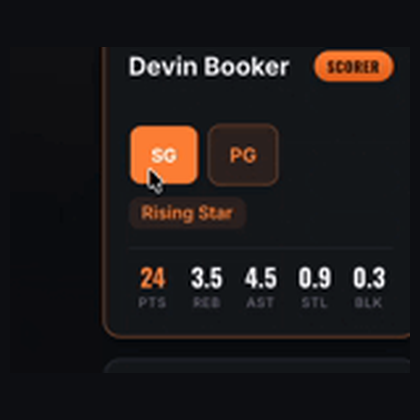
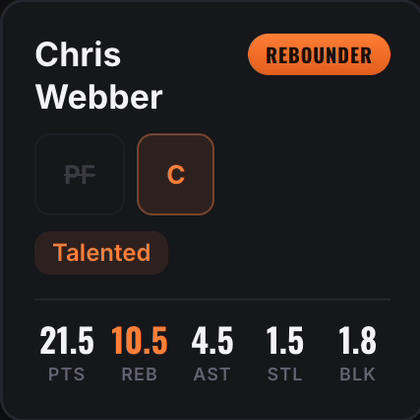
Merge Findings into one box, fix stat-legibility image sizing
- Findings: 11 separate boxes combined into a single container with
  divider rows between items, instead of 11 individually-boxed cards
- Stat legibility before/after: replaced blurry low-res "after" crop
  with a crisp frame sourced from the full-res video, matched both
  cards to the same player (Chris Webber) and the same text/content
  scale so before and after are a fair visual comparison

diff --git a/iknowball-case-study.html b/iknowball-case-study.html
@@ -320,6 +320,22 @@
       padding: 24px 26px;
       margin-bottom: 20px;
     }
+    .findings-box {
+      background: #F1EFE9;
+      border-radius: 8px;
+      padding: 8px 26px;
+    }
+    .findings-item {
+      padding: 18px 0;
+      border-bottom: 1px solid rgba(0,0,0,0.07);
+    }
+    .findings-item:last-child { border-bottom: none; }
+    .findings-item h3 {
+      margin: 0;
+      font-size: 18px;
+      font-weight: 700;
+      color: var(--text);
+    }
     .finding-sources {
       display: flex;
       flex-wrap: wrap;
@@ -487,59 +503,61 @@
       <p>Key themes that repeated across all three rounds, condensed to the headline finding and who flagged it.</p>
     </div>
 
-    <div class="finding">
-      <div class="finding-sources"><span class="src-chip">Founding complaint</span><span class="src-chip">Nicky</span><span class="src-chip new">Kevin's group</span></div>
-      <h3>Repetition: the reason the project exists, twice over</h3>
-    </div>
+    <div class="findings-box">
+      <div class="findings-item">
+        <div class="finding-sources"><span class="src-chip">Founding complaint</span><span class="src-chip">Nicky</span><span class="src-chip new">Kevin's group</span></div>
+        <h3>Repetition: the reason the project exists, twice over</h3>
+      </div>
 
-    <div class="finding">
-      <div class="finding-sources"><span class="src-chip new">Kevin's group</span></div>
-      <h3>Ratings still don't feel accurate: the "decade dilution" pattern</h3>
-    </div>
+      <div class="findings-item">
+        <div class="finding-sources"><span class="src-chip new">Kevin's group</span></div>
+        <h3>Ratings still don't feel accurate: the "decade dilution" pattern</h3>
+      </div>
 
-    <div class="finding">
-      <div class="finding-sources"><span class="src-chip">Maddy</span><span class="src-chip">Arnold</span></div>
-      <h3>Confusion with game mechanic</h3>
-    </div>
+      <div class="findings-item">
+        <div class="finding-sources"><span class="src-chip">Maddy</span><span class="src-chip">Arnold</span></div>
+        <h3>Confusion with game mechanic</h3>
+      </div>
 
-    <div class="finding">
-      <div class="finding-sources"><span class="src-chip">Maddy</span><span class="src-chip">Justin</span></div>
-      <h3>Stats were present but invisible</h3>
-    </div>
+      <div class="findings-item">
+        <div class="finding-sources"><span class="src-chip">Maddy</span><span class="src-chip">Justin</span></div>
+        <h3>Stats were present but invisible</h3>
+      </div>
 
-    <div class="finding">
-      <div class="finding-sources"><span class="src-chip">Arnold</span></div>
-      <h3>Visual identity felt generic</h3>
-    </div>
+      <div class="findings-item">
+        <div class="finding-sources"><span class="src-chip">Arnold</span></div>
+        <h3>Visual identity felt generic</h3>
+      </div>
 
-    <div class="finding">
-      <div class="finding-sources"><span class="src-chip">Justin</span><span class="src-chip">Arnold</span><span class="src-chip">Nicky</span><span class="src-chip new">Kevin's group</span></div>
-      <h3>Scoring needs to be transparent, not just present</h3>
-    </div>
+      <div class="findings-item">
+        <div class="finding-sources"><span class="src-chip">Justin</span><span class="src-chip">Arnold</span><span class="src-chip">Nicky</span><span class="src-chip new">Kevin's group</span></div>
+        <h3>Scoring needs to be transparent, not just present</h3>
+      </div>
 
-    <div class="finding">
-      <div class="finding-sources"><span class="src-chip">Justin</span><span class="src-chip">Nicky</span></div>
-      <h3>The player pool feels thin</h3>
-    </div>
+      <div class="findings-item">
+        <div class="finding-sources"><span class="src-chip">Justin</span><span class="src-chip">Nicky</span></div>
+        <h3>The player pool feels thin</h3>
+      </div>
 
-    <div class="finding">
-      <div class="finding-sources"><span class="src-chip">Arnold</span><span class="src-chip new">Kevin's group</span></div>
-      <h3>Wants for delight and reward</h3>
-    </div>
+      <div class="findings-item">
+        <div class="finding-sources"><span class="src-chip">Arnold</span><span class="src-chip new">Kevin's group</span></div>
+        <h3>Wants for delight and reward</h3>
+      </div>
 
-    <div class="finding">
-      <div class="finding-sources"><span class="src-chip">Arnold</span></div>
-      <h3>Copy clarity</h3>
-    </div>
+      <div class="findings-item">
+        <div class="finding-sources"><span class="src-chip">Arnold</span></div>
+        <h3>Copy clarity</h3>
+      </div>
 
-    <div class="finding">
-      <div class="finding-sources"><span class="src-chip new">Kevin's group</span></div>
-      <h3>The game needs more meta-game, not just more polish</h3>
-    </div>
+      <div class="findings-item">
+        <div class="finding-sources"><span class="src-chip new">Kevin's group</span></div>
+        <h3>The game needs more meta-game, not just more polish</h3>
+      </div>
 
-    <div class="finding">
-      <div class="finding-sources"><span class="src-chip">Arnold</span><span class="src-chip new">Kevin's group</span></div>
-      <h3>Difficulty is still calibrated around basketball literacy</h3>
+      <div class="findings-item">
+        <div class="finding-sources"><span class="src-chip">Arnold</span><span class="src-chip new">Kevin's group</span></div>
+        <h3>Difficulty is still calibrated around basketball literacy</h3>
+      </div>
     </div>
   </div>
 
